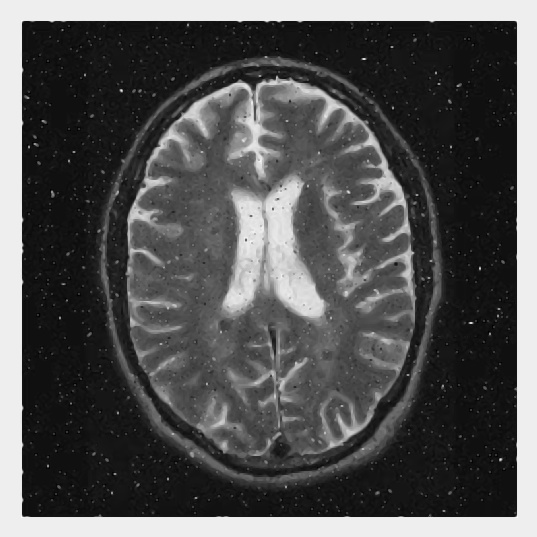
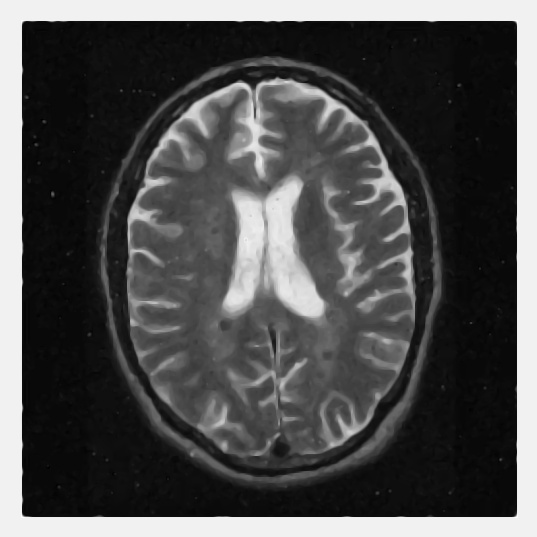
task04 visualizing really good images

diff --git a/P2_C/task4/src/task4.cpp b/P2_C/task4/src/task4.cpp
@@ -60,7 +60,7 @@ int main(int argc, char ** argv)
     GradientAnisotropicFilterType;
   GradientAnisotropicFilterType::Pointer gradientAnisotropicFilter = GradientAnisotropicFilterType::New();
   gradientAnisotropicFilter->SetInput(reader->GetOutput());
-  const unsigned int gradientAnisotropicNumberOfIterations = 15;
+  const unsigned int gradientAnisotropicNumberOfIterations = 24;
   const double gradientAnisotropicTimeStep = 0.01;
   const double gradientAnistropicConductance = 3;
   gradientAnisotropicFilter->SetNumberOfIterations(gradientAnisotropicNumberOfIterations);
@@ -80,7 +80,7 @@ int main(int argc, char ** argv)
     CurvatureAnisotropicFilterType;
   CurvatureAnisotropicFilterType::Pointer curvatureAnisotropicFilter = CurvatureAnisotropicFilterType::New();
   curvatureAnisotropicFilter->SetInput(reader->GetOutput());
-  const unsigned int curvatureAnisotropicNumberOfIterations = 5;
+  const unsigned int curvatureAnisotropicNumberOfIterations = 24;
   const double curvatureAnisotropicTimeStep = 0.01;
   const double curvatureAnisotropicConductance = 3;
   const bool curvatureAnisotropicUseImageSpacing = true;
@@ -104,7 +104,7 @@ int main(int argc, char ** argv)
   typedef itk::CurvatureFlowImageFilter<InputImageType, OutputImageType> CurvatureFlowFilterType;
   CurvatureFlowFilterType::Pointer curvatureFlowFilter = CurvatureFlowFilterType::New();
   curvatureFlowFilter->SetInput(reader->GetOutput());
-  const unsigned int curvatureFlowNumberOfIterations = 3;
+  const unsigned int curvatureFlowNumberOfIterations = 8;
   const double curvatureFlowTimeStep = 0.0025;
   curvatureFlowFilter->SetNumberOfIterations(curvatureFlowNumberOfIterations);
   curvatureFlowFilter->SetTimeStep(curvatureFlowTimeStep);
